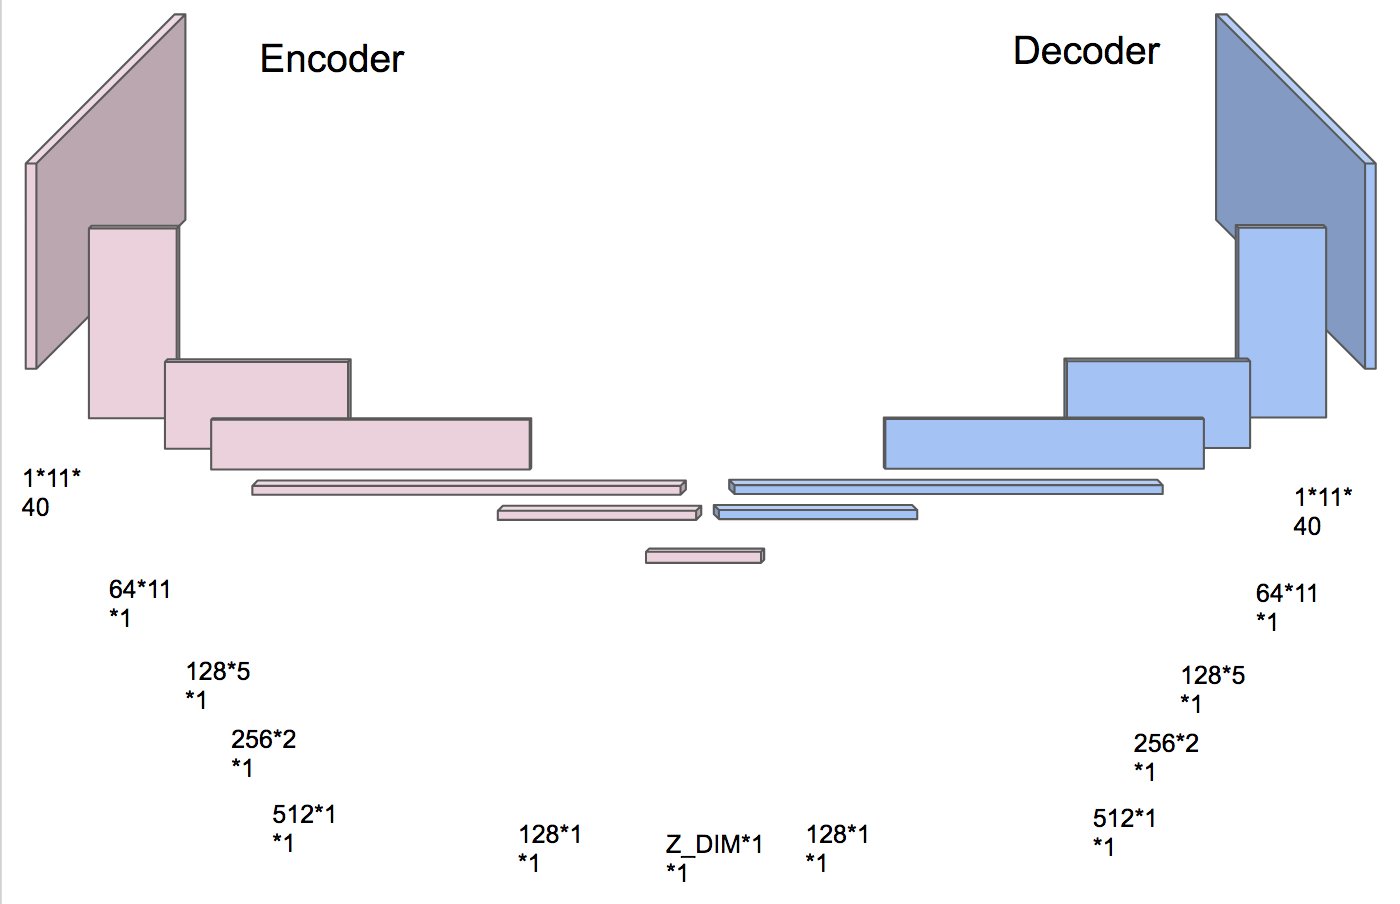
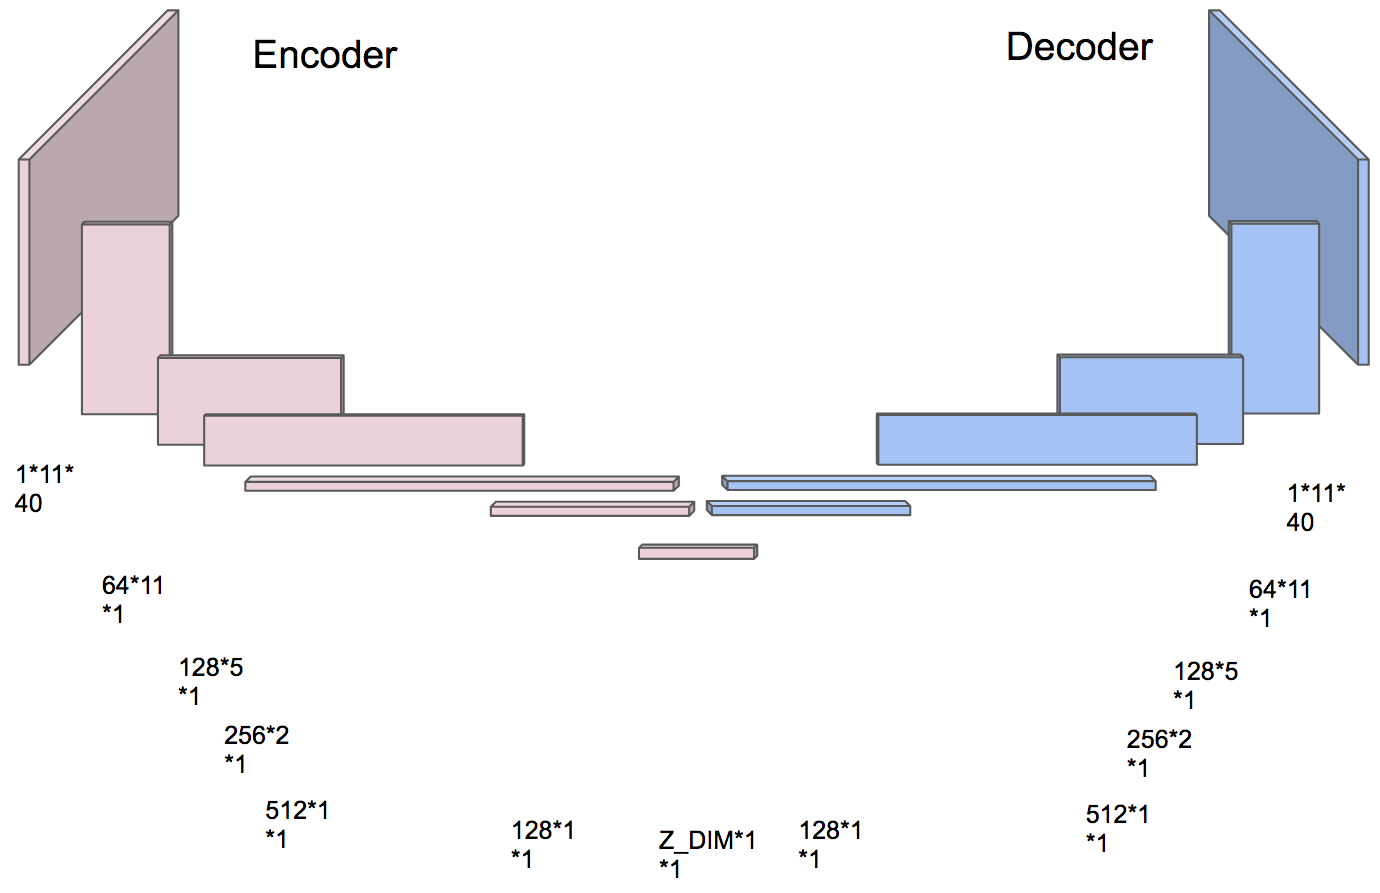
r

diff --git a/README.md b/README.md
@@ -20,6 +20,7 @@ This repository contains a group of work for speech generation project.
 
 ## WAE(Wasserstein AutoEncoder)
 
+<img src="https://github.com/edchengg/generative_model_speech/blob/master/figures/wae/wae_model.png" width="800">
 ### Results
 
 [Wasserstein Auto-Encoders](https://arxiv.org/abs/1711.01558)
